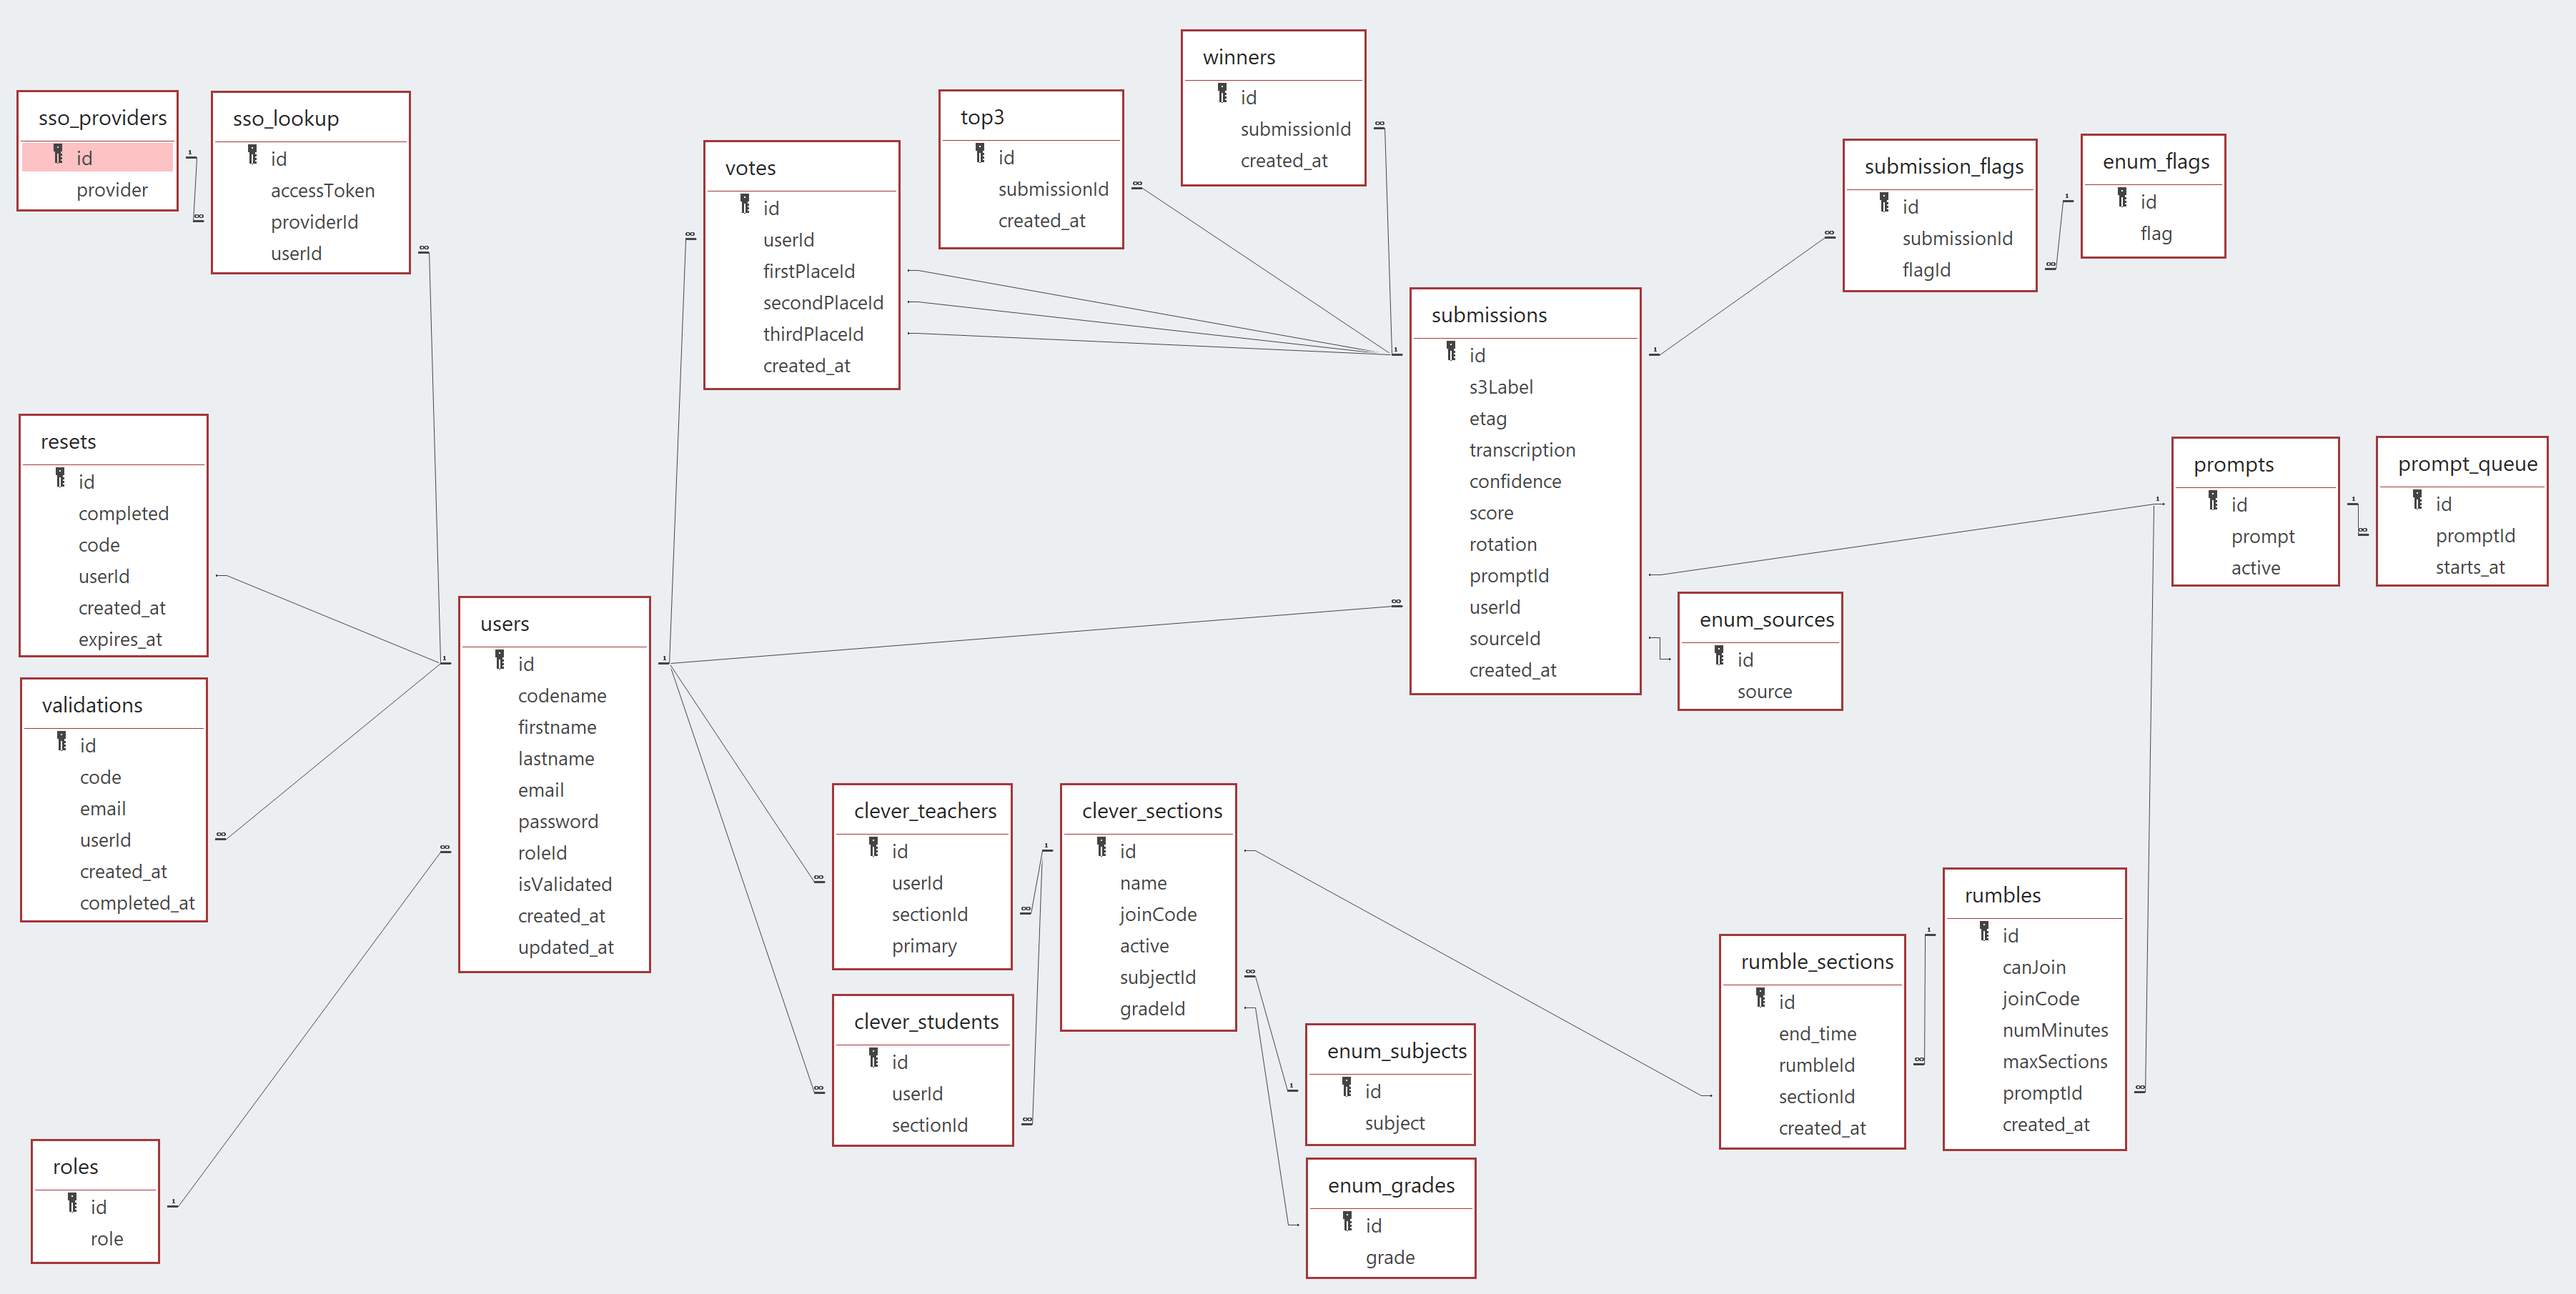
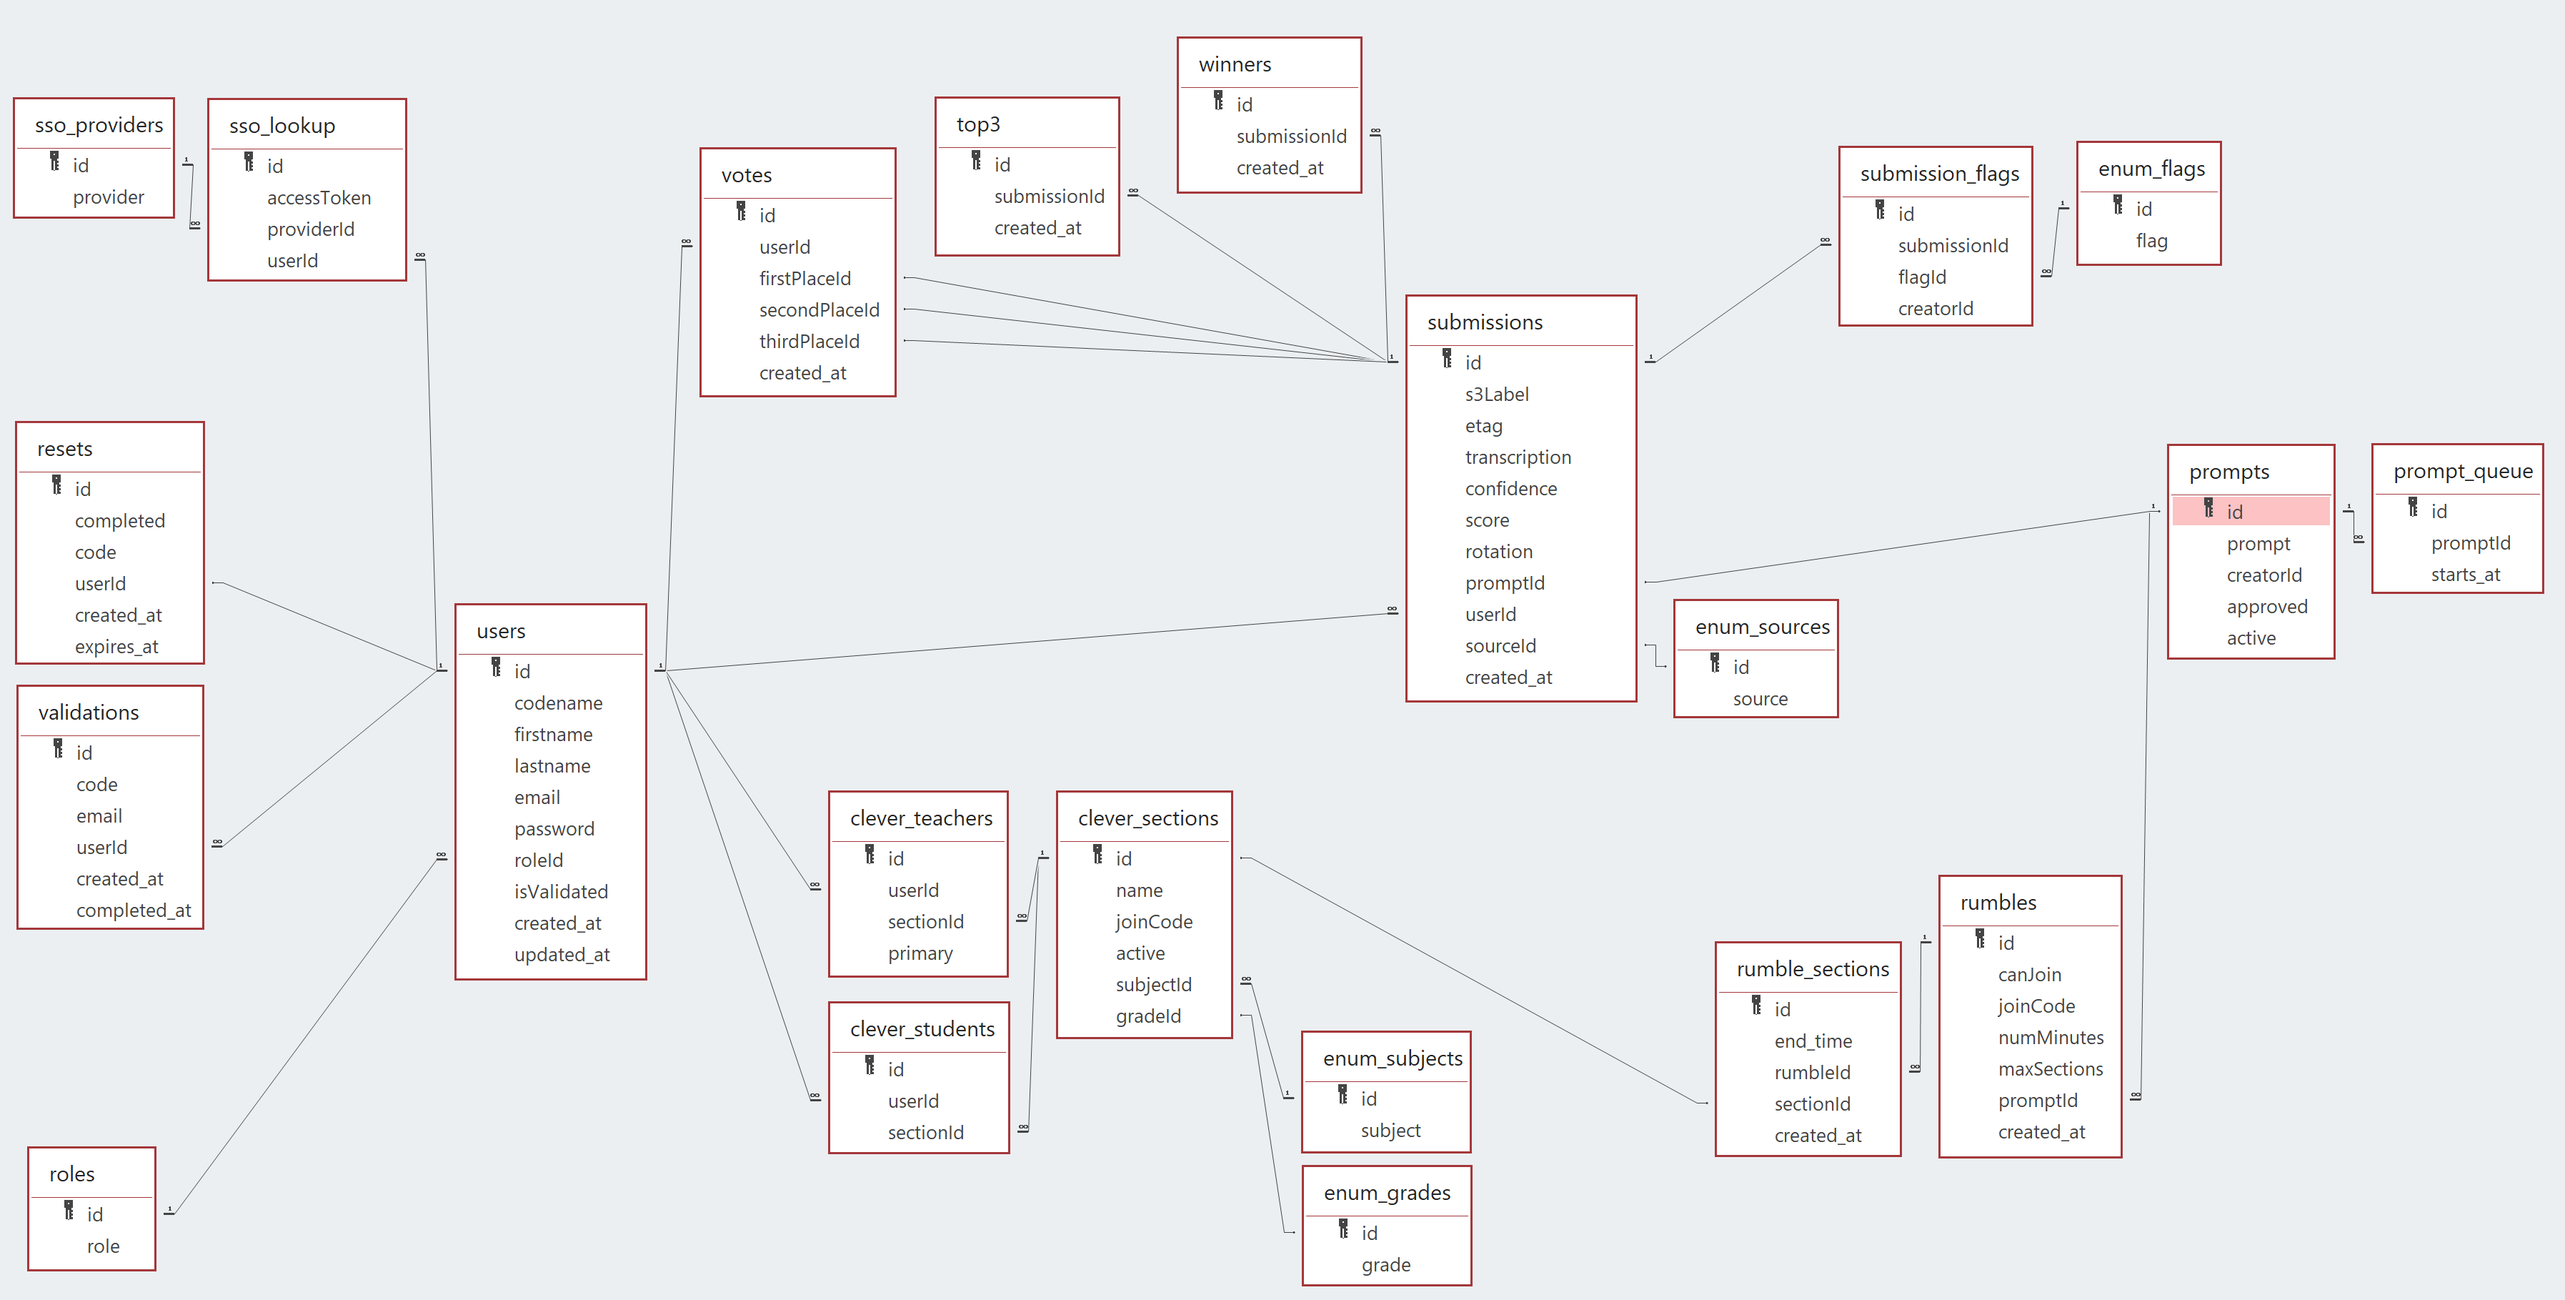
Updated tables and fixed tests to allow teachers to upload their own prompts

diff --git a/src/api/routes/submissions.ts b/src/api/routes/submissions.ts
@@ -13,7 +13,6 @@ import {
   minNumber,
   isArray,
 } from '../../../deps.ts';
-import { Sources } from '../../interfaces/enumSources.ts';
 import { Roles } from '../../interfaces/roles.ts';
 import { INewSubmission } from '../../interfaces/submissions.ts';
 import SubmissionModel from '../../models/submissions.ts';
@@ -192,7 +191,8 @@ export default (app: IRouter) => {
       try {
         const flags = await subServiceInstance.flagSubmission(
           parseInt(req.params.id, 10),
-          req.body.flags
+          req.body.flags,
+          req.body.userInfo.id
         );
 
         res

diff --git a/src/services/submission.ts b/src/services/submission.ts
@@ -209,11 +209,16 @@ export default class SubmissionService extends BaseService {
     }
   }
 
-  public async flagSubmission(submissionId: number, flagIds: number[]) {
+  public async flagSubmission(
+    submissionId: number,
+    flagIds: number[],
+    creatorId?: number
+  ) {
     try {
       const flagItems = flagIds.map((flagId) => ({
         flagId,
         submissionId: submissionId,
+        creatorId,
       }));
       const flags = await this.db
         .table('submission_flags')

diff --git a/src/db/migrations/20210110191556_prompts.js b/src/db/migrations/20210110191556_prompts.js
@@ -4,6 +4,12 @@ exports.up = (knex) => {
     t.increments('id');
     t.string('prompt').notNullable().unique();
     t.boolean('active').defaultTo(false);
+    t.boolean('approved').defaultTo(false);
+    t.integer('creatorId')
+      .unsigned()
+      .references('users.id')
+      .onUpdate('CASCADE')
+      .onDelete('RESTRICT');
   });
 };
 

diff --git a/src/db/migrations/20210110194826_submission_flags.js b/src/db/migrations/20210110194826_submission_flags.js
@@ -14,6 +14,11 @@ exports.up = function (knex) {
       .references('enum_flags.id')
       .onUpdate('CASCADE')
       .onDelete('RESTRICT');
+    t.integer('creatorId')
+      .unsigned()
+      .references('users.id')
+      .onUpdate('CASCADE')
+      .onDelete('RESTRICT');
     t.unique(['submissionId', 'flagId']);
   });
 };

diff --git a/src/interfaces/prompts.ts b/src/interfaces/prompts.ts
@@ -1,8 +1,11 @@
 export interface IPrompt extends INewPrompt {
   id: number;
+  approved: boolean;
 }
 
 export interface INewPrompt {
   prompt: string;
   active: boolean;
+  approved?: boolean;
+  creatorId?: number;
 }
